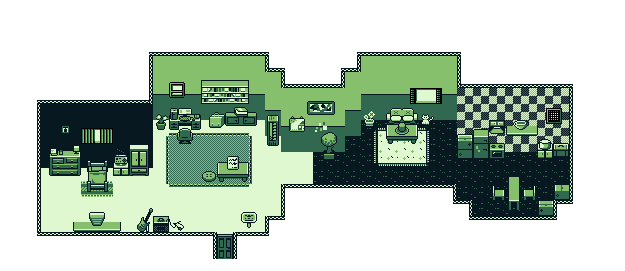
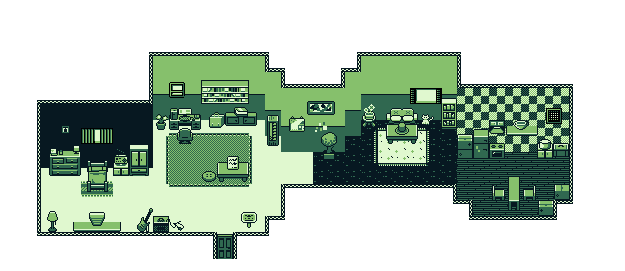
add lights shader

diff --git a/src/constants.ts b/src/constants.ts
@@ -10,6 +10,7 @@ export interface DialogData {
   book: string;
   cat: null;
   radio: null;
+  light: null;
 }
 
 export enum ShowMark {
@@ -20,16 +21,18 @@ export enum ShowMark {
   book,
   cat,
   radio,
+  light,
 }
 
 export const dialogData: DialogData = {
   sign: `안녕하세요! 저의 <2D World Portfolio>에 방문해주셔서 감사합니다.<br>느낌표가 표시되어 있는 곳에 가까이 다가가면 다양한 내용을 확인해 보실 수 있습니다.`,
-  chair: `질문이나 의견, 혹은 전달하고 싶은 이야기가 있으시다면 무엇이든지 환영합니다!<br>언제든지 아래의 연락처로 연락 주시기 바랍니다 :D<br>[Email] <a href="mailto:hyomk24@gamil.com">hyomk24@gamil.com</a>`,
-  computer: `질문이나 의견, 혹은 전달하고자 하는 이야기가 있으시다면 무엇이든지 환영합니다!<br>언제든지 아래의 연락처로 연락 주시기 바랍니다 :D<br>[Email] <a href="mailto:hyomk24@gamil.com">hyomk24@gamil.com</a>`,
+  chair: `질문이나 의견, 혹은 전달하고 싶은 이야기가 있으시다면 무엇이든지 환영합니다!<br>언제든지 아래의 연락처로 연락 주시기 바랍니다 :D<br>Email: <a href="mailto:hyomk24@gamil.com">hyomk24@gamil.com</a>`,
+  computer: `질문이나 의견, 혹은 전달하고자 하는 이야기가 있으시다면 무엇이든지 환영합니다!<br>언제든지 아래의 연락처로 연락 주시기 바랍니다 :D<br>Email: <a href="mailto:hyomk24@gamil.com">hyomk24@gamil.com</a>`,
   door: `이곳을 떠나고 싶으시다면 탭을 닫아 종료할 수 있습니다!`,
   table: `이 공간을 만든 저는 웹 개발자 강효민이라고 합니다 :D<br><br>다른 분야들 보다도 프론트엔드 개발에 애정을 갖고 가장 집중하고 있어요. 유저와 가장 맞닿아 있는 곳에 위치하여 더 나은 사용 경험을 제공하기 위해 끊임없이 노력하고자 하며, 그러한 과정에서 큰 보람을 느끼기도 합니다.<br><br>만약 저에 대한 설명이 조금 더 필요하시다면, 저의 <a href="http://rallit.com/resumes/1272974@gya1" target="_blank">이력서</a>를 확인해 보실 수 있습니다.`,
   gallery: `이 포트폴리오는 <code>JavaScript</code>로 게임을 만들기 위한 라이브러리인 <code>Kaboom.js</code>를 통해 만들어졌습니다. 평소 관심이 많았던 게임이라는 분야를 저에게 있어 친숙한 언어를 통해 만들어 볼 수 있어 뜻깊은 경험이었던 것 같아요!`,
-  book: `주로 <code>JavaScript</code> 언어와 <code>React</code>를 기반으로 웹 개발을 하고 있는데, 제 작업물은 저의 <a href="https://github.com/mnngfl" target="_blank">GitHub</a>에서 확인하실 수 있습니다.<br>또한 개인적으로 공부한 내용을 정리해 <a href="https://velog.io/@seesaw/posts" target="_blank">Blog</a>에 포스팅하고 있기도 합니다.<br><br>유저가 매 순간 편안한 사용 경험을 느끼도록 만드는 것이나, 누군가는 사소하다고 지나쳐 버릴 수도 있는 작은 문제를 해결하는 것에 흥미와 열정을 가지고 있어요.`,
+  book: `주로 <code>JavaScript</code> 언어와 <code>React</code>를 기반으로 웹 개발을 하고 있는데, 제 작업물은 저의 <a href="https://github.com/mnngfl" target="_blank">GitHub</a>에서 확인하실 수 있습니다. 또한 개인적으로 공부한 내용을 정리해 <a href="https://velog.io/@seesaw/posts" target="_blank">Blog</a>에 포스팅하고 있기도 합니다.<br><br>유저가 매 순간 편안한 사용 경험을 느끼도록 만드는 것이나, 누군가는 사소하다고 지나쳐 버릴 수도 있는 작은 문제를 해결하는 것에 흥미와 열정을 가지고 있어요.`,
   cat: null,
   radio: null,
+  light: null,
 };

diff --git a/src/main.ts b/src/main.ts
@@ -10,6 +10,7 @@ import clickSound from "/sounds/Click.wav";
 import menuInSound from "/sounds/Menu_In.wav";
 import menuOutSound from "/sounds/Menu_Out.wav";
 import meowSound from "/sounds/Cat_Meow.wav";
+import bumpSound from "/sounds/Bump.wav";
 import characters from "/characters.png";
 import mapImg from "/map.png";
 import mapJson from "/map.json?url";
@@ -35,8 +36,12 @@ k.loadSound("click", clickSound);
 k.loadSound("menuIn", menuInSound);
 k.loadSound("menuOut", menuOutSound);
 k.loadSound("meow", meowSound);
+k.loadSound("bump", bumpSound);
 k.volume(0.7);
 let useSound = true;
+
+k.loadShaderURL("light", undefined, "shaders/light.frag");
+let lightOn = true;
 
 k.loadSprite("character", "characters.png", {
   sliceX: 9,
@@ -126,6 +131,33 @@ k.scene("main", async () => {
               } else {
                 useSound = true;
                 k.volume(0.7);
+              }
+              return;
+            } else if (key === "light") {
+              player.isInDialogue = true;
+              displayDialog(
+                lightOn ? "방의 조명을 끕니다." : "방의 조명을 켭니다.",
+                () => {
+                  player.isInDialogue = false;
+                  k.play("bump");
+                }
+              );
+              stopAnims();
+              k.play("bump");
+              if (lightOn) {
+                lightOn = false;
+                k.usePostEffect("light", () => ({
+                  u_radius: 64,
+                  u_blur: 64,
+                  u_resolution: k.vec2(k.width(), k.height()),
+                  u_pos: k.vec2(
+                    k.center().x,
+                    k.center().y + k.camScale().y * 80
+                  ),
+                }));
+              } else {
+                lightOn = true;
+                k.usePostEffect("");
               }
               return;
             } else {

diff --git a/index.html b/index.html
@@ -33,7 +33,8 @@
             <span class="letter key-right"></span>: 오른쪽으로 이동
           </p>
           <p>
-            <code>Space</code>,<code>Enter</code>,<code>Esc</code>: 대화창 닫기
+            <code>Space</code>, <code>Enter</code>, <code>Esc</code>: 대화창
+            닫기
           </p>
         </div>
         <div id="credit" class="note" style="display: none">

diff --git a/src/style.scss b/src/style.scss
@@ -34,8 +34,8 @@ code {
   margin-right: 0.3rem;
   vertical-align: top;
   text-wrap: nowrap;
-  &:not(:first-child) {
-    margin-left: 0.15rem;
+  &:not(:first-of-type) {
+    margin-left: -0.5rem;
   }
 }
 
@@ -162,6 +162,7 @@ a {
   width: 16px;
   height: 16px;
   display: inline-block;
+  margin-right: 4px;
   margin-left: -4px;
   &:first-child {
     margin-left: 4px;
